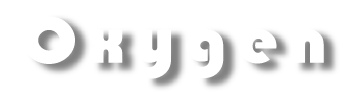
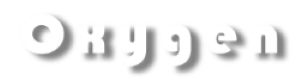
oxy

diff --git a/css/mine.min.css b/css/mine.min.css
@@ -1,1 +1,1 @@
-.list{margin:0;padding:0;list-style:none}.link{display:block}h1,h2,h3,h4,h5,h6,p{margin-top:0;margin-bottom:0}img{display:block;max-width:100%;height:auto}body{background-color:#fff;color:#212121;font-family:Roboto,sans-serif;letter-spacing:.03em;margin:0}.page-header{background-image:url("../img/background/background-desktop-mobil.jpg");height:920px;background-size:cover;background-position:center;background-attachment:fixed;margin-left:auto;margin-right:auto;padding-top:50px}@media(min-device-pixel-ratio: 2)and (min-width: 650px)and (max-width: 999px),(min-resolution: 192dpi)and (min-width: 650px)and (max-width: 999px),(min-resolution: 2dppx)and (min-width: 650px)and (max-width: 999px){.page-header{padding-top:18px;height:200px;background-image:url("../img/background/background-desktop-mobil@2x.jpg")}}@media screen and (min-width: 650px)and (max-width: 999px){.page-header{height:1370px;background-image:url("../img/background/background-desktop-tablet.jpg")}}@media screen and (min-width: 1000px){.page-header{max-width:1900px;height:800px;padding-top:50px;background-image:url("../img/background/background-desktop.jpg")}}@media(min-device-pixel-ratio: 2)and (min-width: 1200px),(min-resolution: 192dpi)and (min-width: 1200px),(min-resolution: 2dppx)and (min-width: 1200px){.page-header{height:1370px;background-image:url("../img/background/background-desktop@2x.jpg")}}.page-header__nav{position:fixed}@media screen and (min-width: 650px){.page-header__nav{margin-left:100px}}@media screen and (max-width: 649px){.page-header__nav{margin-left:15px}}.site-nav{display:flex;font-weight:400;font-size:12px;line-height:1.94;letter-spacing:.03em}@media screen and (min-width: 480px){.site-nav{display:flex;font-weight:500;font-size:14px;line-height:1.94;letter-spacing:.03em}}@media screen and (min-width: 767px){.site-nav{display:flex;font-weight:600;font-size:18px;line-height:1.94;letter-spacing:.03em}}@media(min-device-pixel-ratio: 2)and (min-width: 650px),(min-resolution: 192dpi)and (min-width: 650px),(min-resolution: 2dppx)and (min-width: 650px){.site-nav{display:flex;font-weight:400;font-size:12px;line-height:1.94;letter-spacing:.03em}}.site-nav__link{display:inline-block;text-decoration:none;color:#fff}.site-nav__link:hover,.site-nav__link:focus{color:#ff8230}.site-nav__link--current{color:#ff8230}.site-nav__item{margin-right:30px}@media screen and (max-width: 350px){.site-nav__item{margin-right:10px}}@media screen and (min-width: 480px){.site-nav__item{margin-right:50px}}.hero{margin-top:140px;padding:0;display:flex;justify-content:center}@media screen and (min-width: 650px){.hero{margin-top:20px}}@media screen and (min-width: 1000px){.hero{margin-top:80px}}.hero__link{position:fixed;text-decoration:none;display:block}.water{padding-left:10px;padding-right:10px;transform:translateX(1%)}@media screen and (max-width: 660px){.water{max-width:400px}}.hero__thumb{position:relative;overflow:hidden}.hero__overlay{margin-top:35px;padding:0;opacity:0;transform:translateY(50%);transition:transform 1000ms cubic-bezier(0.4, 0, 0.2, 1),opacity 1000ms cubic-bezier(0.4, 0, 0.2, 1)}@media(min-device-pixel-ratio: 2)and (min-width: 650px),(min-resolution: 192dpi)and (min-width: 650px),(min-resolution: 2dppx)and (min-width: 650px){.hero__overlay{margin-top:0px}}@media screen and (min-width: 1000px){.hero__overlay{margin-top:50px}}.hero__link:hover .hero__overlay,.hero__link:focus .hero__overlay{transform:translateX(0);opacity:1}.logo{display:flex;justify-content:center;margin-bottom:20px;padding:0}@media(min-device-pixel-ratio: 2)and (min-width: 650px),(min-resolution: 192dpi)and (min-width: 650px),(min-resolution: 2dppx)and (min-width: 650px){.logo{margin-bottom:5px}}@media screen and (min-width: 1000px){.logo{margin-bottom:30px}}.title{text-align:right;margin-top:500px;margin-right:20px;font-weight:500;font-size:18px;line-height:1.86;letter-spacing:.06em;color:#ff8230}@media screen and (min-width: 768px){.title{margin-right:100px;text-align:right;margin-top:600px;margin-right:40px;font-weight:600;font-size:20px;line-height:1.86;letter-spacing:.06em;color:#ff8230}}/*# sourceMappingURL=mine.min.css.map */
+.list{margin:0;padding:0;list-style:none}.link{display:block}h1,h2,h3,h4,h5,h6,p{margin-top:0;margin-bottom:0}img{display:block;max-width:100%;height:auto}body{background-color:#fff;color:#212121;font-family:Roboto,sans-serif;letter-spacing:.03em;margin:0}.page-header{background-image:url("../img/background/background-desktop-mobil.jpg");height:920px;background-size:cover;background-position:center;background-attachment:fixed;margin-left:auto;margin-right:auto;padding-top:50px}@media(min-device-pixel-ratio: 2)and (min-width: 650px)and (max-width: 999px),(min-resolution: 192dpi)and (min-width: 650px)and (max-width: 999px),(min-resolution: 2dppx)and (min-width: 650px)and (max-width: 999px){.page-header{padding-top:18px;height:1000px;background-image:url("../img/background/background-desktop-mobil@2x.jpg")}}@media screen and (min-width: 650px)and (max-width: 999px){.page-header{height:1370px;background-image:url("../img/background/background-desktop-tablet.jpg")}}@media screen and (min-width: 1000px){.page-header{max-width:1900px;height:820px;padding-top:50px;background-image:url("../img/background/background-desktop.jpg")}}@media(min-device-pixel-ratio: 2)and (min-width: 1200px),(min-resolution: 192dpi)and (min-width: 1200px),(min-resolution: 2dppx)and (min-width: 1200px){.page-header{height:1180px;background-image:url("../img/background/background-desktop@2x.jpg")}}.page-header__nav{position:fixed;z-index:1}@media screen and (min-width: 650px){.page-header__nav{margin-left:100px}}@media screen and (max-width: 649px){.page-header__nav{margin-left:15px}}.site-nav{display:flex;font-weight:400;font-size:12px;line-height:1.94;letter-spacing:.03em}@media screen and (min-width: 480px){.site-nav{display:flex;font-weight:500;font-size:14px;line-height:1.94;letter-spacing:.03em}}@media screen and (min-width: 767px){.site-nav{display:flex;font-weight:600;font-size:18px;line-height:1.94;letter-spacing:.03em}}@media(min-device-pixel-ratio: 2)and (min-width: 650px),(min-resolution: 192dpi)and (min-width: 650px),(min-resolution: 2dppx)and (min-width: 650px){.site-nav{display:flex;font-weight:400;font-size:12px;line-height:1.94;letter-spacing:.03em}}.site-nav__link{display:inline-block;text-decoration:none;color:#fff}.site-nav__link:hover,.site-nav__link:focus{color:#ff8230}.site-nav__link--current{color:#ff8230}.site-nav__item{margin-right:30px}@media screen and (max-width: 350px){.site-nav__item{margin-right:10px}}@media screen and (min-width: 480px){.site-nav__item{margin-right:50px}}.hero{margin-top:140px;padding:0;display:flex;justify-content:center}@media screen and (min-width: 650px){.hero{margin-top:20px}}@media screen and (min-width: 1000px){.hero{margin-top:80px}}.hero__link{position:fixed;text-decoration:none;display:block}.water{padding-left:10px;padding-right:10px;transform:translateX(1%)}@media screen and (min-device-pixel-ratio: 2)and (max-width: 999px),(min-resolution: 192dpi)and (max-width: 999px),(min-resolution: 2dppx)and (max-width: 999px){.water{max-width:500px}}.hero__thumb{position:relative;overflow:hidden}.hero__overlay{margin-top:35px;padding:0;opacity:0;transform:translateY(50%);transition:transform 1000ms cubic-bezier(0.4, 0, 0.2, 1),opacity 1000ms cubic-bezier(0.4, 0, 0.2, 1)}@media(min-device-pixel-ratio: 2)and (min-width: 650px),(min-resolution: 192dpi)and (min-width: 650px),(min-resolution: 2dppx)and (min-width: 650px){.hero__overlay{margin-top:10px;margin-bottom:5px}}.hero__link:hover .hero__overlay,.hero__link:focus .hero__overlay{transform:translateX(0);opacity:1}.logo{width:100%;display:flex;justify-content:center;margin-bottom:20px;padding:0}.oxy{margin-top:230px;position:fixed}@media(min-device-pixel-ratio: 2)and (min-width: 650px),(min-resolution: 192dpi)and (min-width: 650px),(min-resolution: 2dppx)and (min-width: 650px){.oxy{margin-top:195px}}@media(min-device-pixel-ratio: 2)and (min-width: 660px)and (max-width: 999px),(min-resolution: 192dpi)and (min-width: 660px)and (max-width: 999px),(min-resolution: 2dppx)and (min-width: 660px)and (max-width: 999px){.oxy{margin-top:250px}}@media screen and (min-width: 1000px){.oxy{margin-top:350px}}.title{text-align:right;margin-top:500px;margin-right:20px;font-weight:500;font-size:18px;line-height:1.86;letter-spacing:.06em;color:#ff8230}@media screen and (min-width: 768px){.title{margin-right:100px;text-align:right;margin-top:400px;margin-right:40px;font-weight:600;font-size:20px;line-height:1.86;letter-spacing:.06em;color:#ff8230}}/*# sourceMappingURL=mine.min.css.map */

diff --git a/css/mine.css b/css/mine.css
@@ -48,7 +48,7 @@ body {
 @media (min-device-pixel-ratio: 2) and (min-width: 650px) and (max-width: 999px), (min-resolution: 192dpi) and (min-width: 650px) and (max-width: 999px), (min-resolution: 2dppx) and (min-width: 650px) and (max-width: 999px) {
   .page-header {
     padding-top: 18px;
-    height: 200px;
+    height: 1000px;
     background-image: url("../img/background/background-desktop-mobil@2x.jpg");
   }
 }
@@ -61,20 +61,21 @@ body {
 @media screen and (min-width: 1000px) {
   .page-header {
     max-width: 1900px;
-    height: 800px;
+    height: 820px;
     padding-top: 50px;
     background-image: url("../img/background/background-desktop.jpg");
   }
 }
 @media (min-device-pixel-ratio: 2) and (min-width: 1200px), (min-resolution: 192dpi) and (min-width: 1200px), (min-resolution: 2dppx) and (min-width: 1200px) {
   .page-header {
-    height: 1370px;
+    height: 1180px;
     background-image: url("../img/background/background-desktop@2x.jpg");
   }
 }
 
 .page-header__nav {
   position: fixed;
+  z-index: 1;
 }
 @media screen and (min-width: 650px) {
   .page-header__nav {
@@ -178,9 +179,9 @@ body {
   padding-right: 10px;
   transform: translateX(1%);
 }
-@media screen and (max-width: 660px) {
+@media screen and (min-device-pixel-ratio: 2) and (max-width: 999px), (min-resolution: 192dpi) and (max-width: 999px), (min-resolution: 2dppx) and (max-width: 999px) {
   .water {
-    max-width: 400px;
+    max-width: 500px;
   }
 }
 
@@ -198,12 +199,8 @@ body {
 }
 @media (min-device-pixel-ratio: 2) and (min-width: 650px), (min-resolution: 192dpi) and (min-width: 650px), (min-resolution: 2dppx) and (min-width: 650px) {
   .hero__overlay {
-    margin-top: 0px;
-  }
-}
-@media screen and (min-width: 1000px) {
-  .hero__overlay {
-    margin-top: 50px;
+    margin-top: 10px;
+    margin-bottom: 5px;
   }
 }
 .hero__link:hover .hero__overlay, .hero__link:focus .hero__overlay {
@@ -212,19 +209,30 @@ body {
 }
 
 .logo {
+  width: 100%;
   display: flex;
   justify-content: center;
   margin-bottom: 20px;
   padding: 0;
 }
+
+.oxy {
+  margin-top: 230px;
+  position: fixed;
+}
 @media (min-device-pixel-ratio: 2) and (min-width: 650px), (min-resolution: 192dpi) and (min-width: 650px), (min-resolution: 2dppx) and (min-width: 650px) {
-  .logo {
-    margin-bottom: 5px;
+  .oxy {
+    margin-top: 195px;
+  }
+}
+@media (min-device-pixel-ratio: 2) and (min-width: 660px) and (max-width: 999px), (min-resolution: 192dpi) and (min-width: 660px) and (max-width: 999px), (min-resolution: 2dppx) and (min-width: 660px) and (max-width: 999px) {
+  .oxy {
+    margin-top: 250px;
   }
 }
 @media screen and (min-width: 1000px) {
-  .logo {
-    margin-bottom: 30px;
+  .oxy {
+    margin-top: 350px;
   }
 }
 
@@ -242,7 +250,7 @@ body {
   .title {
     margin-right: 100px;
     text-align: right;
-    margin-top: 600px;
+    margin-top: 400px;
     margin-right: 40px;
     font-weight: 600;
     font-size: 20px;

diff --git a/index.html b/index.html
@@ -32,16 +32,15 @@
 <!-- Water -->
 <section class="hero ">
 
-<!-- <div class="hero__item"> -->
 	<a class="water hero__link link" href="./index.html">
 
 		<div class="hero__thumb">
 			<picture>
-			<source srcset="./img/water/water-mobil.webp 1x, ./img/water/water-mobil@2x.webp 2x" media="(max-width: 660px)" type="img/webp">
-			<source srcset="./img/water/water-mobil.png 1x, ./img/water/water-mobil@2x.png 2x" media="(max-width: 660px)">
+			<source srcset="./img/water/water-mobil.webp 1x, ./img/water/water-mobil@2x.webp 2x" media="(max-width: 649px)" type="img/webp">
+			<source srcset="./img/water/water-mobil.png 1x, ./img/water/water-mobil@2x.png 2x" media="(max-width: 649px)">
 
-			<source srcset="./img/water/water-tablet.webp 1x, ./img/water/water-tablet@2x.webp 2x" media="(min-width: 661px)" type="img/webp">
-			<source srcset="./img/water/water-tablet.png 1x, ./img/water/water-tablet@2x.png 2x" media="(min-width: 661px)">
+			<source srcset="./img/water/water-tablet.webp 1x, ./img/water/water-tablet@2x.webp 2x" media="(min-width: 650px)" type="img/webp">
+			<source srcset="./img/water/water-tablet.png 1x, ./img/water/water-tablet@2x.png 2x" media="(min-width: 650px)">
 
 			<source srcset="./img/water/water.webp 1x, ./img/water/water@2x.webp 2x"  media="(min-width: 1000px)" type="img/webp">
 			<source srcset="./img/water/water.png 1x, ./img/water/water@2x.png 2x" media="(min-width: 1000px)">
@@ -61,21 +60,23 @@
 			<source srcset="./img/o/logo.webp 1x, ./img/o/logo@2x.webp 2x"  media="(min-width: 1000px)" type="img/webp">
 			<source srcset="./img/o/logo.png 1x, ./img/o/logo@2x.png 2x" media="(min-width: 1000px)">
 			<img src="./img/o/logo.png" alt="logotyp leter O"></picture></li>
-
-			<li class="logo"><picture>
+		</ul>
+		</div>
+	</a>
+			<div class="oxy"><picture>
 				
 			<source srcset="./img/oxy/oxy-mobil.webp 1x, ./img/oxy/oxy-mobil.webp 2x" media="(max-width: 660px)" type="img/webp">
 			<source srcset="./img/oxy/oxy-mobil.png 1x, ./img/oxy/oxy-mobil.png 2x" media="(max-width: 660px)">
 			
+			<source srcset="./img/oxy/oxy-tablet.webp 1x, ./img/oxy/oxy-tablet.webp 2x" media="(min-width: 661px)" type="img/webp">
+			<source srcset="./img/oxy/oxy-tablet.png 1x, ./img/oxy/oxy-tablet.png 2x" media="(min-width: 661px)">
+
 			<source srcset="./img/oxy/oxygen.webp 1x, ./img/oxy/oxygen.webp 2x"  media="(min-width: 1000px)" type="img/webp">
 			<source srcset="./img/oxy/oxygen.png 1x, ./img/oxy/oxygen.png 2x" media="(min-width: 1000px)">
 
-				<img src="./img/oxy/oxygen.png" alt="word oxygen"></picture></li>
-		</ul>
-		</div>
+			<img src="./img/oxy/oxygen.png" alt="word oxygen">
+			</picture></div>
 
-	</a>
-<!-- </div> -->
 </section>
 
 <h2 class="title">Water enriched with oxygen No.1</h2>

diff --git a/sass/components/_hero.scss b/sass/components/_hero.scss
@@ -6,14 +6,14 @@
 		display: flex;
 		justify-content: center;
 
-			@media screen and (min-width: 650px) {
-				margin-top: 20px;
-			}
+		@media screen and (min-width: 650px) {
+		margin-top: 20px;
+		}
 		
-			@media screen and (min-width: 1000px) {
-				margin-top: 80px;
-			}
-			// border: 2px dashed tomato;
+		@media screen and (min-width: 1000px) {
+		margin-top: 80px;
+		}
+	// border: 2px dashed tomato;
 
 }
 
@@ -25,10 +25,13 @@
 }
 
 .water {
-		@media screen and (max-width: 660px) {
-				max-width: 400px;
+	
+		@media screen and 
+			(min-device-pixel-ratio: 2) and (max-width: 999px),
+				(min-resolution: 192dpi) and (max-width: 999px),
+				(min-resolution: 2dppx) and (max-width: 999px) {
+				max-width: 500px;
 			}
-
 
 	padding-left: 10px;
 	padding-right: 10px;
@@ -38,18 +41,19 @@
 .hero__thumb {
 	position: relative;
 	overflow: hidden;
-
 }
 
 .hero__overlay {
 	@media (min-device-pixel-ratio: 2) and (min-width: 650px),
 		(min-resolution: 192dpi) and (min-width: 650px),
 		(min-resolution: 2dppx) and (min-width: 650px) {
-		margin-top: 0px;
+		margin-top: 10px;
+			margin-bottom: 5px;
 		}
 	
 		@media screen and (min-width: 1000px) {
-		margin-top: 50px;
+		// margin-top: 50px;
+		// margin-bottom: 30px;
 		}
 	margin-top: 35px;
 	padding: 0;
@@ -66,20 +70,39 @@
 }
 
 .logo {
-	@media (min-device-pixel-ratio: 2) and (min-width: 650px),
-	(min-resolution: 192dpi) and (min-width: 650px),
-	(min-resolution: 2dppx) and (min-width: 650px) {
-	margin-bottom: 5px;
-		
-	}
-		@media screen and (min-width: 1000px) {
-			margin-bottom: 30px;
-		}
+	// @media (min-device-pixel-ratio: 2) and (min-width: 650px),
+	// (min-resolution: 192dpi) and (min-width: 650px),
+	// (min-resolution: 2dppx) and (min-width: 650px) {
 
+		
+	// }
+	// 	@media screen and (min-width: 1000px) {
+		
+	// 	}
+	width: 100%;
 	display:flex;
 	justify-content: center;
 	margin-bottom: 20px;
 	padding: 0;
+}
+
+.oxy{
+	@media (min-device-pixel-ratio: 2) and (min-width: 650px),
+		(min-resolution: 192dpi) and (min-width: 650px),
+		(min-resolution: 2dppx) and (min-width: 650px) {
+			margin-top: 195px;
+		}
+		@media (min-device-pixel-ratio: 2) and (min-width: 660px) and (max-width: 999px),
+		(min-resolution: 192dpi) and (min-width: 660px) and (max-width: 999px),
+		(min-resolution: 2dppx) and (min-width: 660px) and (max-width: 999px) {
+			margin-top: 250px;
+		}
+		@media screen and (min-width: 1000px) {
+		margin-top: 350px;
+		}
+
+	margin-top: 230px;
+	position: fixed;
 
 }
 
@@ -87,7 +110,7 @@
 	@media screen and (min-width: 768px) {
 			margin-right: 100px;
 			text-align: right;
-				margin-top: 600px;
+				margin-top: 400px;
 
 				margin-right: 40px;
 				font-weight: 600;

diff --git a/sass/components/_page-header.scss b/sass/components/_page-header.scss
@@ -17,23 +17,10 @@ url("../img/background/background-desktop-mobil.jpg");
 	(min-resolution: 192dpi) and (min-width: 650px) and (max-width: 999px),
 	(min-resolution: 2dppx) and (min-width: 650px) and (max-width: 999px){
 		padding-top: 18px;
-		height: 200px;
+		height: 1000px;
 		background-image:
 		url("../img/background/background-desktop-mobil@2x.jpg");
 			}
-
-
-
-	// @media (min-device-pixel-ratio: 2) and (min-width: 650px),
-	// (min-resolution: 192dpi) and (min-width: 650px),
-	// (min-resolution: 2dppx) and (min-width: 650px) {
-	// background-image:
-	// url("../img/background/background-desktop-tablet@2x.jpg");
-	
-	
-	// }
-
-
 
 	@media screen and (min-width: 650px) and (max-width: 999px)
 	{
@@ -45,7 +32,7 @@ url("../img/background/background-desktop-mobil.jpg");
 		
 	@media screen and (min-width: 1000px) {
 	max-width: 1900px;
-	height: 800px;
+	height: 820px;
 	padding-top: 50px;
 	background-image:
 	url("../img/background/background-desktop.jpg");
@@ -54,7 +41,7 @@ url("../img/background/background-desktop-mobil.jpg");
 	@media (min-device-pixel-ratio: 2) and (min-width: 1200px),
 	(min-resolution: 192dpi) and (min-width: 1200px),
 	(min-resolution: 2dppx) and (min-width: 1200px) {
-		height: 1370px;
+		height: 1180px;
 	background-image:
 	url("../img/background/background-desktop@2x.jpg");
 	}
@@ -71,7 +58,7 @@ url("../img/background/background-desktop-mobil.jpg");
 	margin-left: 15px;
 	}
 		position: fixed;
-	
+		z-index: 1;
 // border: 2px dashed tomato;
 
 }
